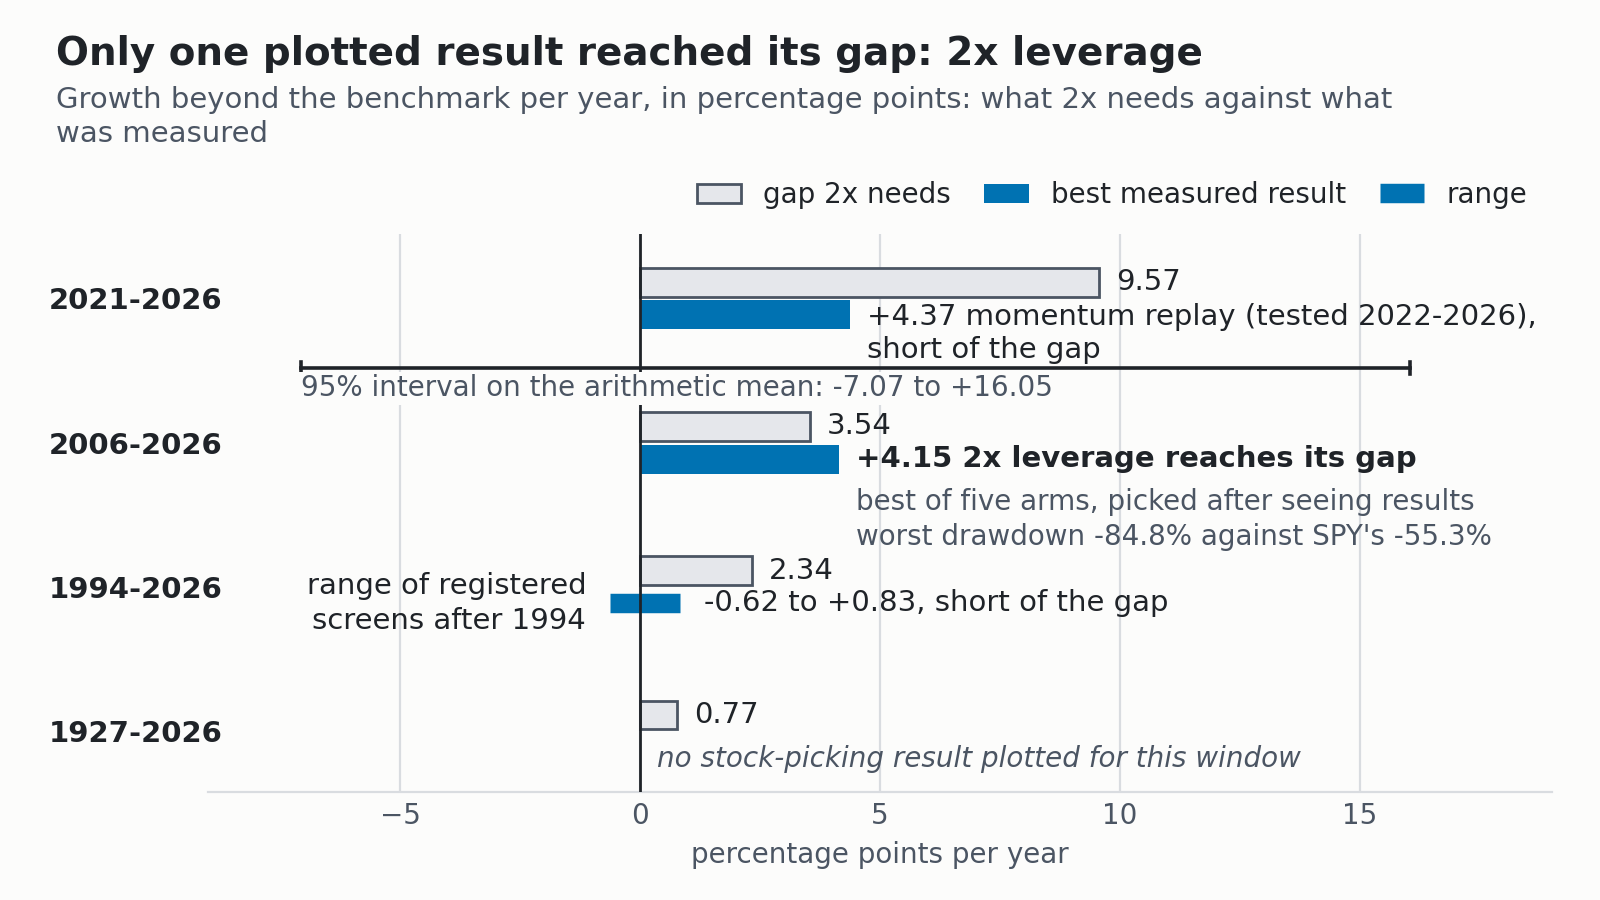
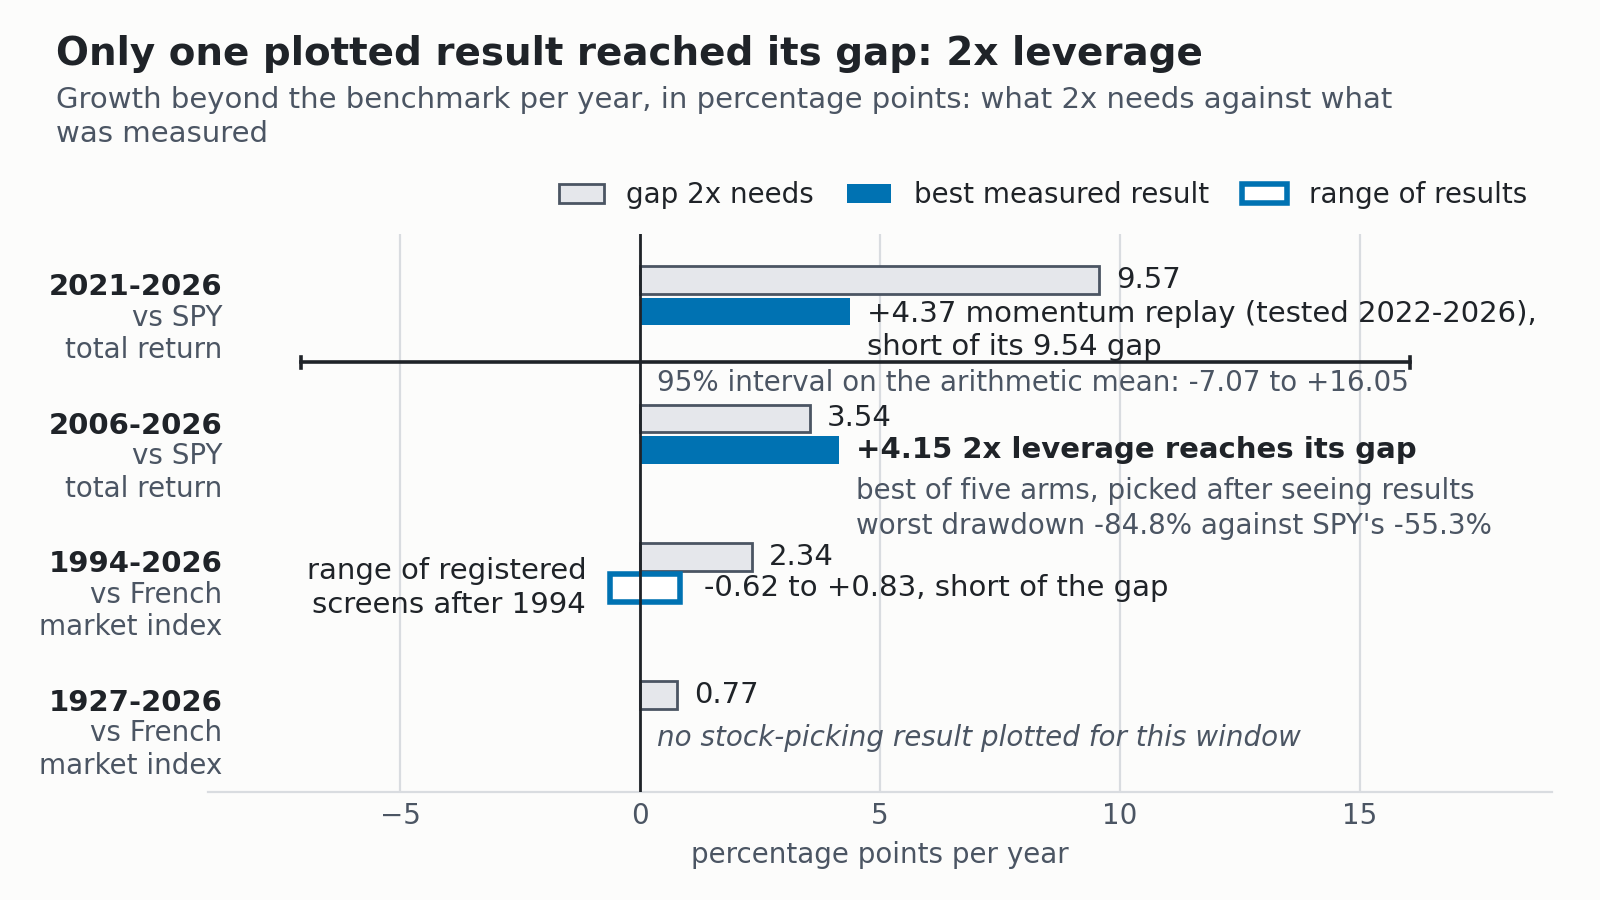
fix(research): finish chart benchmark tags and legend

diff --git a/scripts/root_cause_figures.py b/scripts/root_cause_figures.py
@@ -15,7 +15,6 @@ import matplotlib
 matplotlib.use("Agg")
 
 import matplotlib.pyplot as plt  # noqa: E402
-from matplotlib.lines import Line2D  # noqa: E402
 from matplotlib.patches import Rectangle  # noqa: E402
 
 REPO_ROOT = Path(__file__).resolve().parents[1]
@@ -43,6 +42,14 @@ VERMILLION = "#D55E00"
 GREY = "#7A8088"
 NEED_FILL = "#E5E7EB"
 NEED_EDGE = "#4B5563"
+
+# Benchmark each gap row is measured against, drawn under its window label.
+BENCHMARK_TAGS = {
+    "2021-2026": "vs SPY\ntotal return",
+    "2006-2026": "vs SPY\ntotal return",
+    "1994-2026": "vs French\nmarket index",
+    "1927-2026": "vs French\nmarket index",
+}
 
 FONT = 10.5  # points; 10 pt or more keeps text near 15 px at 900 px display width
 FONT_SMALL = 10.0
@@ -291,11 +298,17 @@ def _draw_gap(out: Path) -> None:
         )
         ax.text(need + 0.35, y + need_dy, f"{need:.2f}", va="center", fontsize=FONT, color=INK)
         ax.text(
-            -8.7, y, window, va="center", ha="right", fontsize=FONT, color=INK, fontweight="bold"
-        )
+            -8.7, y + 0.12, window, va="center", ha="right", fontsize=FONT, color=INK,
+            fontweight="bold",
+        )  # fmt: skip
+        ax.text(
+            -8.7, y - 0.06, BENCHMARK_TAGS[window], va="top", ha="right", fontsize=FONT_SMALL,
+            color=MUTED, linespacing=1.2,
+        )  # fmt: skip
 
     # 2021-2026 row: momentum bar with its interval whisker and a one-line interval label
     mom = v("momentum replay, OOS 2022-2026")
+    mom_gap = v("gap 2x needs, 2022-2026 (momentum window)")
     lo, hi = v("momentum interval low"), v("momentum interval high")
     y0 = base(0) + got_dy
     ax.barh(y0, mom, height, color=BLUE, zorder=3)
@@ -303,13 +316,13 @@ def _draw_gap(out: Path) -> None:
     for end in (lo, hi):
         ax.plot([end, end], [y0 - 0.61, y0 - 0.49], color=INK, linewidth=1.3, zorder=3)
     ax.text(
-        mom + 0.35, y0 + 0.12, f"+{mom:.2f} momentum replay (tested 2022-2026),\nshort of the gap",
+        mom + 0.35, y0 + 0.12,
+        f"+{mom:.2f} momentum replay (tested 2022-2026),\nshort of its {mom_gap:.2f} gap",
         va="top", fontsize=FONT, color=INK, linespacing=1.2,
     )  # fmt: skip
     ax.text(
-        lo, y0 - 0.62, f"95% interval on the arithmetic mean: {lo:.2f} to +{hi:.2f}",
+        0.35, y0 - 0.62, f"95% interval on the arithmetic mean: {lo:.2f} to +{hi:.2f}",
         va="top", ha="left", fontsize=FONT_SMALL, color=MUTED,
-        bbox={"facecolor": SURFACE, "edgecolor": "none", "pad": 1.0}, zorder=5,
     )  # fmt: skip
 
     # 2006-2026 row: 2x leverage reaches its gap, with the drawdown caveat beside it
@@ -332,7 +345,7 @@ def _draw_gap(out: Path) -> None:
     low = v("stock-picking results after 1994, low")
     high = v("stock-picking results after 1994, high")
     y2 = base(2) + got_dy
-    ax.plot([low, high], [y2, y2], color=BLUE, linewidth=7, solid_capstyle="butt", zorder=3)
+    ax.barh(y2, high - low, height, left=low, color="white", edgecolor=BLUE, linewidth=2, zorder=3)
     ax.text(
         low - 0.5, y2, "range of registered\nscreens after 1994",
         va="center", ha="right", fontsize=FONT, color=INK, linespacing=1.3,
@@ -349,14 +362,16 @@ def _draw_gap(out: Path) -> None:
 
     ax.axvline(0, color=INK, linewidth=1.0, zorder=4)
     ax.set_xlim(-9, 19)
-    ax.set_ylim(-0.6, 5.2)
+    ax.set_ylim(-0.85, 5.2)
     ax.set_yticks([])
     ax.set_xticks([-5, 0, 5, 10, 15])
     ax.set_xlabel("percentage points per year", fontsize=FONT_SMALL, color=MUTED)
     handles = [
         Rectangle((0, 0), 1, 1, facecolor=NEED_FILL, edgecolor=NEED_EDGE, label="gap 2x needs"),
         Rectangle((0, 0), 1, 1, facecolor=BLUE, label="best measured result"),
-        Line2D([0], [0], color=BLUE, linewidth=7, solid_capstyle="butt", label="range"),
+        Rectangle(
+            (0, 0), 1, 1, facecolor="white", edgecolor=BLUE, linewidth=2, label="range of results"
+        ),
     ]
     ax.legend(
         handles=handles, loc="lower right", frameon=False, fontsize=FONT_SMALL, labelcolor=INK,
@@ -502,7 +517,8 @@ def _draw_options(out: Path) -> None:
         for (heading, y), body in zip(headings, (block.question, block.step, block.stop)):
             ax.text(x + 0.012, y, heading, fontsize=FONT_SMALL - 0.5, color=MUTED,
                     va="center", fontweight="bold")  # fmt: skip
-            ax.text(x + 0.012, y - 0.03, _wrap(body, 29), fontsize=FONT, color=INK, va="top",
+            width = 26 if heading == "STOP GATE" else 28  # keeps a margin from the column edge
+            ax.text(x + 0.012, y - 0.03, _wrap(body, width), fontsize=FONT, color=INK, va="top",
                     linespacing=1.35)  # fmt: skip
     fig.savefig(out, dpi=DPI, facecolor=SURFACE)
     plt.close(fig)

diff --git a/tests/scripts/test_root_cause_figures.py b/tests/scripts/test_root_cause_figures.py
@@ -41,14 +41,24 @@ def _appears(value: float, line: str) -> bool:
 def _point_problems(point: Point) -> list[str]:
     """Why a point is not traceable to its cited line, or an empty list."""
     line = _source_line(point.source)
+    matches = [
+        m
+        for m in NUMBER.finditer(line)
+        if float(m.group(1)) == abs(point.value)
+        and (point.value == 0 or line[: m.start()].endswith(("-", "\u2212")) == (point.value < 0))
+    ]
+    if not matches:
+        return [f"value {point.value} not stated with its sign at {point.source}"]
     problems = []
-    if not _appears(point.value, line):
-        problems.append(f"value {point.value} not stated with its sign at {point.source}")
-    problems.extend(
-        f"window {span} in the label is not on {point.source}"
-        for span in YEAR_SPAN.findall(point.label)
-        if span not in line
-    )
+    for span in YEAR_SPAN.findall(point.label):
+        if span not in line:
+            problems.append(f"window {span} in the label is not on {point.source}")
+            continue
+        # The window that follows the number must be the labelled one, so a number cannot be
+        # paired with another window on the same line.
+        following = [YEAR_SPAN.search(line, m.end()) for m in matches]
+        if span not in {f.group(0) for f in following if f}:
+            problems.append(f"{point.value} is not followed by {span} at {point.source}")
     return problems
 
 
@@ -104,6 +114,16 @@ def test_mutation_other_number_on_the_same_line_is_caught_by_the_window() -> Non
     assert any("1927-2026" in problem for problem in _point_problems(on_shared_line))
     wrong_value = _mutated(point, value=2.34)
     assert _point_problems(wrong_value)
+
+
+def test_mutation_number_paired_with_another_window_on_its_line_is_caught() -> None:
+    point = _point("gap 2x needs, 2006-2026")
+    assert not _point_problems(point)
+    # SYNTHESIS:67 holds 9.57 (2021-2026) and 3.54 (2006-2026): swapping the values must fail.
+    assert _point_problems(_mutated(point, value=9.57))
+    other = _point("gap 2x needs, 2021-2026")
+    assert not _point_problems(other)
+    assert _point_problems(_mutated(other, label="gap 2x needs, 2006-2026"))
 
 
 def test_mutation_wrong_window_is_caught() -> None:
